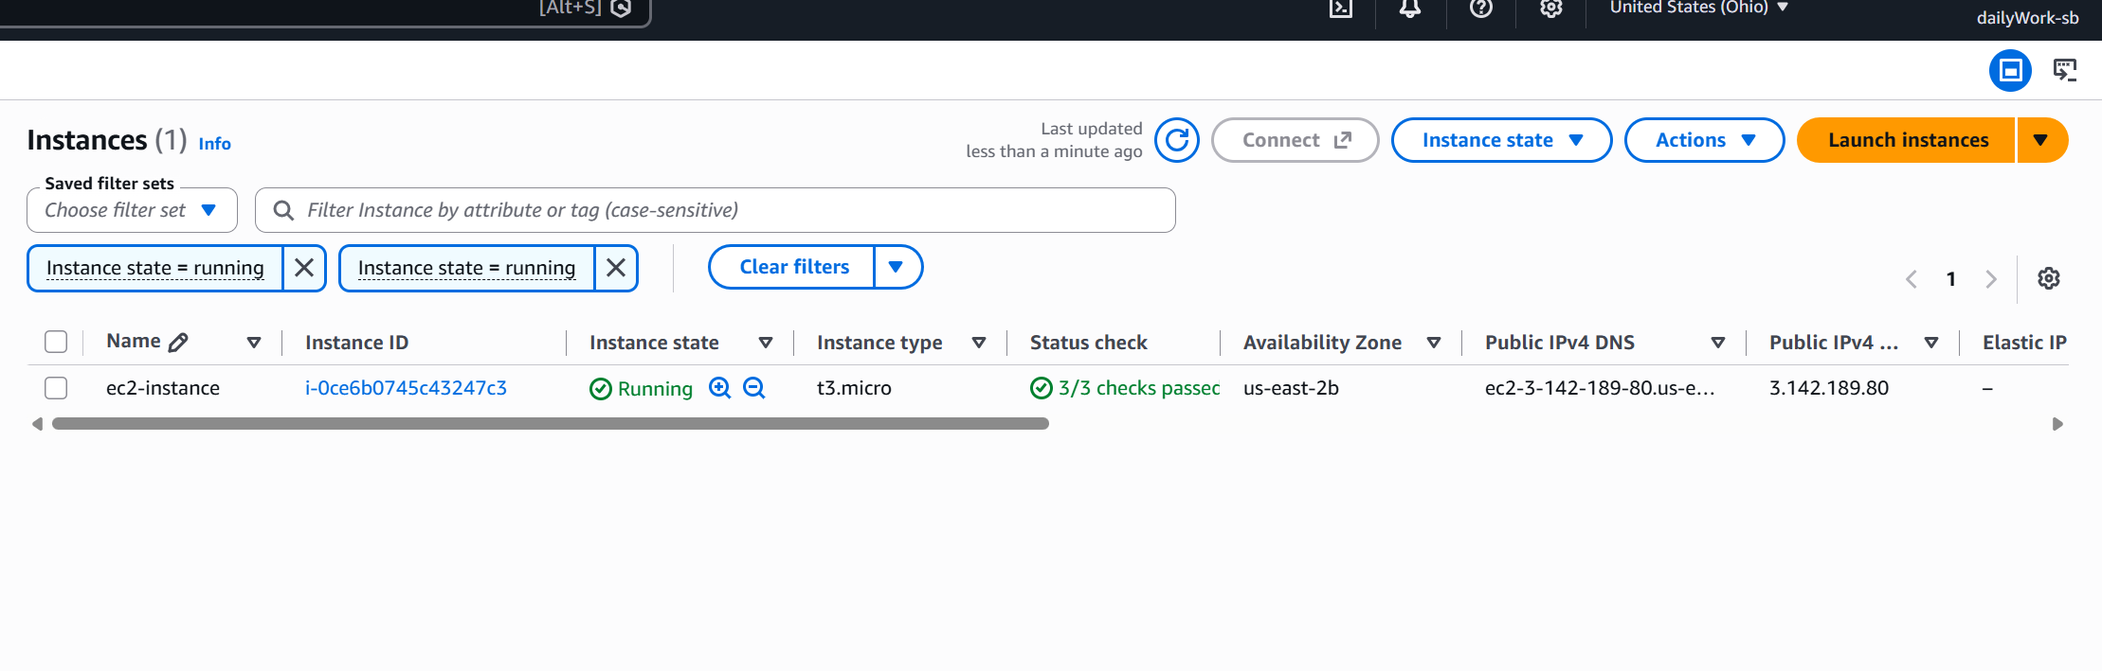
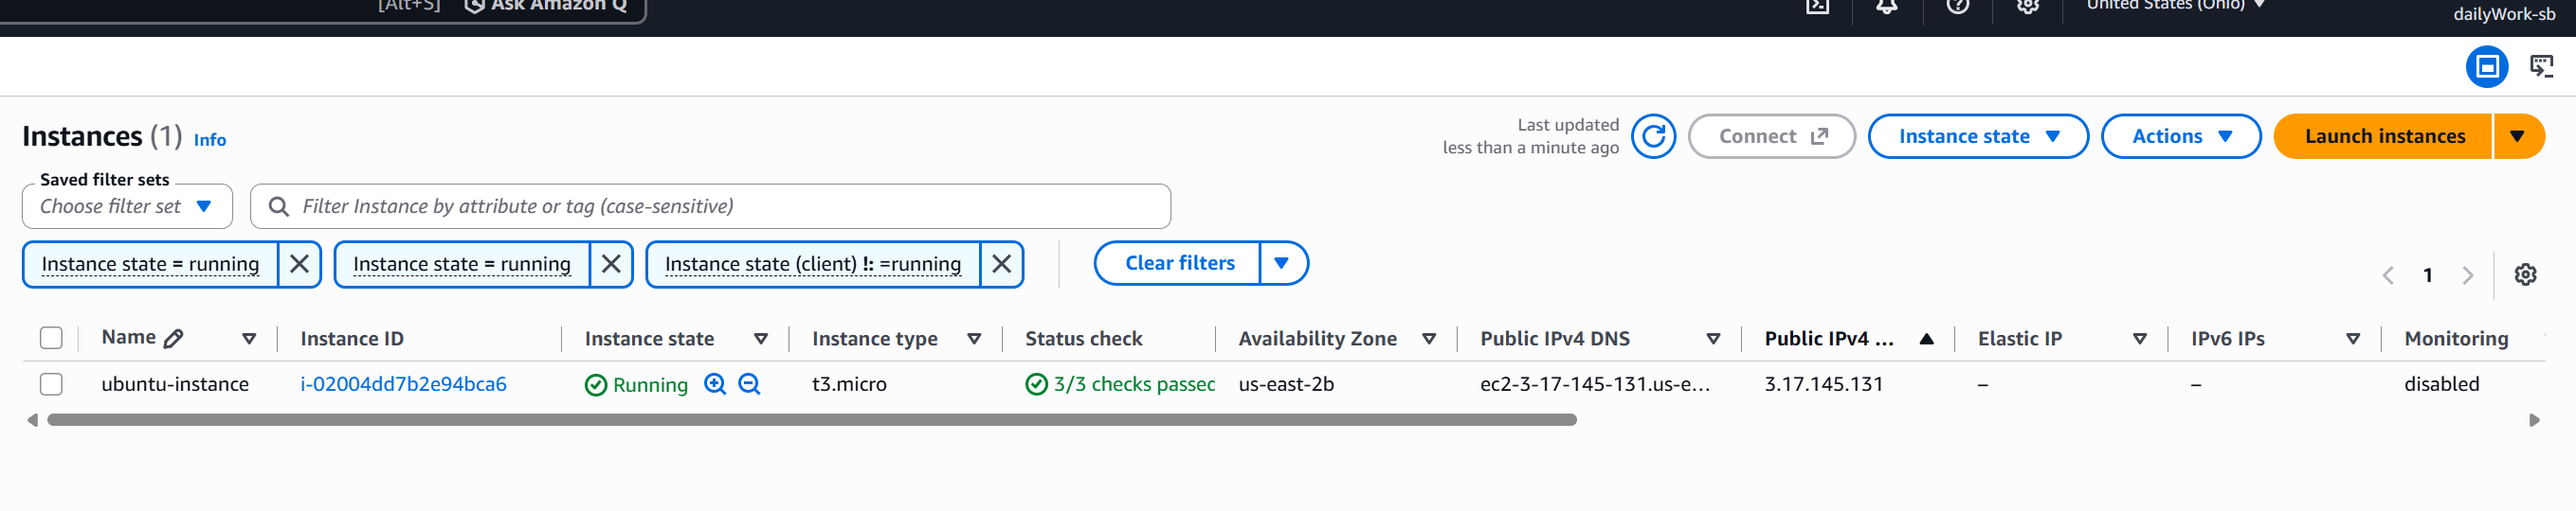
fixing and polishing

diff --git a/module_7/ec2/EC2_DEPLOYMENT.md b/module_7/ec2/EC2_DEPLOYMENT.md
@@ -1,0 +1,193 @@
+# EC2 Deployment
+
+## Deployment record
+
+The EC2 shell prompt showed an Amazon Linux instance (`ec2-user`). During
+setup, the following issues were reported:
+
+- An SSH example using a placeholder key path failed because that file did not
+  exist. SSH requires the actual downloaded key path and instance address.
+- `apt-get` was unavailable, as expected on Amazon Linux; use `dnf`.
+- DNF could not find `docker-compose-plugin`; install the Compose CLI plugin
+  separately if the package is unavailable.
+- A pull of `ghcr.io/pgozgo/module_6-worker:latest` was denied. The configured
+  images for this deployment are public Docker Hub images instead:
+  `docker.io/pgozgo/module6-web:v1` and
+  `docker.io/pgozgo/module6-worker:v1`.
+- Compose reported missing `MODULE7_WEB_IMAGE` and `MODULE7_WORKER_IMAGE`
+  variables when it read an older/different Compose file. The submitted EC2
+  file specifies the image names directly and does not require those variables.
+
+The Docker install, image pulls, and successful service startup have not been
+independently verified from this repository workspace.
+
+## Steps to deploy
+
+1. Connect to the EC2 instance from your local terminal, using your real key,
+   address, and OS login (`ec2-user` for Amazon Linux). For example, in
+   Windows PowerShell:
+
+   ```powershell
+   ssh -i "C:\Users\YourName\Downloads\my-ec2-key.pem" ec2-user@203.0.113.42
+   ```
+
+   Replace `YourName`, `my-ec2-key.pem`, and `203.0.113.42` with your Windows
+   username, downloaded key filename, and EC2 public IPv4 address.
+   `203.0.113.42` is reserved for documentation and is not a real EC2 address.
+
+2. On Amazon Linux, install Docker and start it at boot:
+
+   ```bash
+   sudo dnf update -y
+   sudo dnf install -y docker curl
+   sudo systemctl enable --now docker
+   sudo docker run hello-world
+   ```
+
+   Verify Docker and Docker Compose are installed:
+
+   ```bash
+   docker --version
+   docker compose version
+   ```
+
+   If the Compose plugin is missing, install the matching official plugin
+   binary for the instance architecture:
+
+   ```bash
+   case "$(uname -m)" in
+     x86_64) compose_arch=x86_64 ;;
+     aarch64) compose_arch=aarch64 ;;
+     *) echo "Unsupported architecture: $(uname -m)" >&2; exit 1 ;;
+   esac
+   sudo install -d -m 0755 /usr/local/lib/docker/cli-plugins
+   sudo curl -fsSL \
+     "https://github.com/docker/compose/releases/latest/download/docker-compose-linux-${compose_arch}" \
+     -o /usr/local/lib/docker/cli-plugins/docker-compose
+   sudo chmod 0755 /usr/local/lib/docker/cli-plugins/docker-compose
+   docker compose version
+   ```
+
+3. Clone or update the repository on EC2. From the repository root:
+
+   ```bash
+   git pull --ff-only
+   cd module_7/ec2
+   ```
+
+4. Create `.env` from the checked-in template if it does not already exist.
+   Restrict access to it, then edit it on EC2:
+
+   ```bash
+   cp .env.example .env
+   chmod 600 .env
+   nano .env
+   ```
+
+   In `nano`, replace the placeholder values for each password variable with
+   a different strong password:
+
+   - `POSTGRES_PASSWORD`
+   - `DB_SETUP_PASSWORD`
+   - `DB_APP_PASSWORD`
+   - `DB_MAINTENANCE_PASSWORD`
+   - `RABBITMQ_PASSWORD`
+
+   Generate URL-safe random values with `openssl`; run it separately for each
+   password and paste each result into the matching line in `.env`:
+
+   ```bash
+   openssl rand -hex 24
+   ```
+
+   Keep the generated values private. Do not reuse the same password for
+   multiple services, include them in shell commands, or commit/share `.env`.
+   Save and exit nano with **Ctrl+O**, **Enter**, then **Ctrl+X**. Compose reads
+   these credentials from `.env` when you start or recreate the services.
+
+5. Validate and start the submitted EC2 stack. The `sudo` prefix is used here
+   because Docker group membership grants root-equivalent privileges:
+
+   ```bash
+   sudo docker compose -f docker-compose.ec2.yml --env-file .env config --quiet
+   sudo docker compose -f docker-compose.ec2.yml --env-file .env pull
+   sudo docker compose -f docker-compose.ec2.yml --env-file .env up -d
+   sudo docker compose -f docker-compose.ec2.yml --env-file .env ps -a
+   ```
+
+The stack uses the published Module 6 application images; it does not package
+the Module 7 S3 notebook as a web or worker image. The dashboard maps to EC2
+port `8080` on all interfaces. Restrict inbound port `8080` to trusted sources
+in the EC2 security group. PostgreSQL and RabbitMQ AMQP remain on the private
+Compose network, and the RabbitMQ management UI binds to EC2 loopback.
+
+The dashboard for the current EC2 instance is available at
+<http://3.17.145.131:8080/>. This is an instance-specific public IP and may
+change if the instance is stopped and started; use an Elastic IP if you need
+a stable address. Anyone who can reach this URL and is allowed by the EC2
+security group may access the dashboard, so restrict inbound TCP port `8080`
+to trusted sources.
+To access the RabbitMQ management UI from Windows PowerShell, open a second
+local terminal and keep this SSH tunnel running:
+
+```powershell
+ssh -i "C:\Users\YourName\Downloads\my-ec2-key.pem" -L 15673:127.0.0.1:15673 ec2-user@203.0.113.42
+```
+
+Replace the sample key path and reserved example IP with your actual values.
+Then open <http://localhost:15673/> in your local browser. For Ubuntu EC2
+instances, replace `ec2-user` with `ubuntu`. Do not expose ports `5432`,
+`5672`, or `15673` publicly; allow SSH only from your IP and port `8080` only
+from trusted sources. Docker-published ports may bypass host firewall rules.
+
+## Updating the deployment
+
+For updated Module 6 application images, push the source changes and run
+**Publish Module 6 images to Docker Hub** from the repository's GitHub Actions
+tab. After the workflow succeeds, on EC2 run:
+
+```bash
+cd ~/jhu_software_concepts/module_7/ec2
+sudo docker compose -f docker-compose.ec2.yml --env-file .env pull web worker
+sudo docker compose -f docker-compose.ec2.yml --env-file .env up -d --no-build
+sudo docker compose -f docker-compose.ec2.yml --env-file .env ps -a
+```
+
+For Compose-file changes, update the repository checkout before running
+`config --quiet` and `up -d`. For `.env` changes, edit the EC2 copy directly, replace the applicable secret
+values with new distinct values, and rerun `up -d`; do not replace it with a
+repository copy. Routine updates
+preserve the PostgreSQL named volume. Do not use `down --volumes` unless you
+intend to delete the database.
+
+## After verification
+
+Stop the EC2 instance and the SageMaker notebook instance from the AWS console
+after collecting the required screenshots and verifying the workflows. Stop,
+do not terminate, the EC2 instance if you need to preserve it for later; check
+AWS billing details for any storage or other resources that may continue to
+incur charges.
+
+## Troubleshooting
+
+- **`apt-get: command not found`:** This is Amazon Linux; use `dnf`.
+- **`No match for argument: docker-compose-plugin`:** Install Docker with DNF
+  and use the Compose plugin binary commands in step 2.
+- **`pull access denied` for `ghcr.io/...`:** Use the configured Docker Hub
+  image references above. Log in only if the repository is private and you
+  have access; authentication cannot resolve a misspelled or unpublished
+  image/tag.
+- **Compose says an image variable is missing:** Make sure you are in
+  `module_7/ec2`, have the current `docker-compose.ec2.yml`, and run the
+  commands with both `-f docker-compose.ec2.yml` and `--env-file .env`.
+- **Container exited or is unhealthy:** Check all containers and recent logs:
+
+  ```bash
+  sudo docker compose -f docker-compose.ec2.yml --env-file .env ps -a
+  sudo docker compose -f docker-compose.ec2.yml --env-file .env logs --tail=100 web worker db rabbitmq
+  ```
+
+- **Existing PostgreSQL volume:** The initialization SQL only runs when the
+  database volume is first initialized. Follow the existing-volume migration
+  guidance in the [Module 6 README](../module_6/README.md#existing-database-volume)
+  before changing the database roles or schema.

diff --git a/module_7/README.md b/module_7/README.md
@@ -31,10 +31,13 @@ downloads `applicant_data.json` from the configured bucket to
 ## EC2 deployment with Docker Compose
 
 The submission Compose file is [`ec2/docker-compose.ec2.yml`](./ec2/docker-compose.ec2.yml).
+For the deployment steps, update process, and troubleshooting record, see
+[`ec2/EC2_DEPLOYMENT.md`](./ec2/EC2_DEPLOYMENT.md).
 It defines `web`, `worker`, `db` (`postgres:16`), and `rabbitmq`
-(`rabbitmq:3.13-management`). The web and RabbitMQ management ports bind to
-the EC2 instance's loopback interface; use an SSH tunnel to access them rather
-than opening them to the public internet.
+(`rabbitmq:3.13-management`). The dashboard is published on EC2 port `8080`.
+Restrict inbound access to that port in the EC2 security group. The RabbitMQ
+management port binds to EC2 loopback and should be accessed through an SSH
+tunnel.
 
 The EC2 Compose file uses the published Module 6 service images from Docker
 Hub: `pgozgo/module6-web:v1` and `pgozgo/module6-worker:v1`. The Module 7 S3
@@ -51,7 +54,7 @@ docker pull docker.io/pgozgo/module6-web:v1
 docker pull docker.io/pgozgo/module6-worker:v1
 docker compose -f docker-compose.ec2.yml --env-file .env pull
 docker compose -f docker-compose.ec2.yml --env-file .env up -d
-docker compose -f docker-compose.ec2.yml --env-file .env ps
+docker compose -f docker-compose.ec2.yml --env-file .env ps -a
 ```
 
 The explicit `docker pull` commands are optional because Compose's `pull`
@@ -65,27 +68,85 @@ the migration instructions in the [Module 6 README](../module_6/README.md#existi
 before starting this adapted stack.
 
 PostgreSQL and RabbitMQ AMQP are only reachable from the private Compose
-network. The management UI and dashboard bind to EC2 loopback on host ports
-`15673` and `8081` respectively (override with `RABBITMQ_HOST_PORT` and
-`WEB_HOST_PORT` in `.env`). To open the dashboard from your computer, run this
-in a local terminal, replacing the key path, login name, and address with your
-EC2 details:
+network. The dashboard publishes on host port `8080` on all network interfaces,
+so restrict inbound TCP port `8080` in the EC2 security group to trusted
+sources; do not expose it to the entire internet. Docker-published ports may
+bypass host firewall rules. RabbitMQ management binds to EC2 loopback on host
+port `15673` (override with `RABBITMQ_HOST_PORT` in `.env`). To access the
+management UI from your computer, run this in a local terminal, replacing the
+key path, login name, and address with your EC2 details:
 
 ```bash
-ssh -i /path/to/key.pem -L 8081:127.0.0.1:8081 ubuntu@<EC2_PUBLIC_IPV4>
+ssh -i /path/to/key.pem -L 15673:127.0.0.1:15673 ubuntu@<EC2_PUBLIC_IPV4>
 ```
 
 For Amazon Linux, use `ec2-user` instead of `ubuntu`. Open
-<http://localhost:8081/> locally. Add a second tunnel with
-`-L 15673:127.0.0.1:15673` if you need the RabbitMQ management UI. The security
-group should allow SSH only from your IP; do not expose ports `5432`, `5672`,
-`8081`, or `15673` publicly.
+<http://localhost:15673/> locally for RabbitMQ management. The dashboard for
+the currently deployed EC2 instance is <http://3.17.145.131:8080/>. Its public
+IP may change if the instance is stopped and started; use an Elastic IP for a
+stable address. Restrict inbound port `8080` to trusted sources. Do not expose
+ports `5432`, `5672`, or `15673` publicly, and allow SSH only from your IP.
+
+### Update and iterate the EC2 deployment
+
+This deployment uses the Module 6 Docker Hub images. To publish updated web or
+worker code, push the changes to the repository, then run the repository's
+**Publish Module 6 images to Docker Hub** workflow from the GitHub **Actions**
+tab using **Run workflow**. The workflow builds both images and pushes the
+`latest`, `v1`, and commit-SHA tags to Docker Hub. Wait for the workflow to
+finish successfully before updating EC2. This workflow does not build a
+Module 7-specific image; Module 7 currently supplies the EC2 Compose
+configuration and runs the published Module 6 services.
+
+Connect to EC2, change to the repository's Module 7 EC2 directory, and pull
+and recreate the web and worker containers:
+
+```bash
+cd ~/jhu_software_concepts/module_7/ec2
+sudo docker compose -f docker-compose.ec2.yml --env-file .env pull web worker
+sudo docker compose -f docker-compose.ec2.yml --env-file .env up -d --no-build
+sudo docker compose -f docker-compose.ec2.yml --env-file .env ps -a
+```
+
+`ps -a` shows stopped containers as well as running ones. Confirm the web,
+worker, PostgreSQL, and RabbitMQ services are running; web and worker should
+be healthy. If a service is stopped or unhealthy, inspect its output:
+
+```bash
+sudo docker compose -f docker-compose.ec2.yml --env-file .env logs --tail=100 web worker
+sudo docker compose -f docker-compose.ec2.yml --env-file .env logs --tail=100 db rabbitmq
+```
+
+If you changed `docker-compose.ec2.yml`, first update the repository checkout
+on EC2 (for example, `git pull --ff-only` from the repository root), then
+validate and apply the configuration:
+
+```bash
+cd ~/jhu_software_concepts
+git pull --ff-only
+cd module_7/ec2
+sudo docker compose -f docker-compose.ec2.yml --env-file .env config --quiet
+sudo docker compose -f docker-compose.ec2.yml --env-file .env up -d
+sudo docker compose -f docker-compose.ec2.yml --env-file .env ps -a
+```
+
+If you change `.env`, edit the EC2 copy directly and rerun `up -d` so Compose
+recreates services with the new settings. Do not overwrite it with a repository
+pull, commit it, or publish it to artifacts; it contains credentials. Keep the
+PostgreSQL named volume when iterating. `docker compose down` stops/removes
+containers without deleting the data volume; avoid `down --volumes` unless
+you intentionally want to erase the database.
 
 ## Lint
 
-Run both checks from this directory; each should report a 10/10 Pylint score:
+Run both checks from this directory; each should report a 10/10 Pylint score.
+The notebook filename is required by the assignment but contains hyphens, so
+disable Pylint's module-name `invalid-name` check for the notebook run:
 
 ```powershell
-python -m pylint src
-python -m nbqa pylint grad-cafe-pipeline.ipynb
+python -m pylint src --fail-under=10
+python -m nbqa pylint grad-cafe-pipeline.ipynb --disable=invalid-name --fail-under=10
 ```
+
+After collecting evidence, stop the EC2 instance and SageMaker notebook
+instance from the AWS console to avoid ongoing compute charges.
